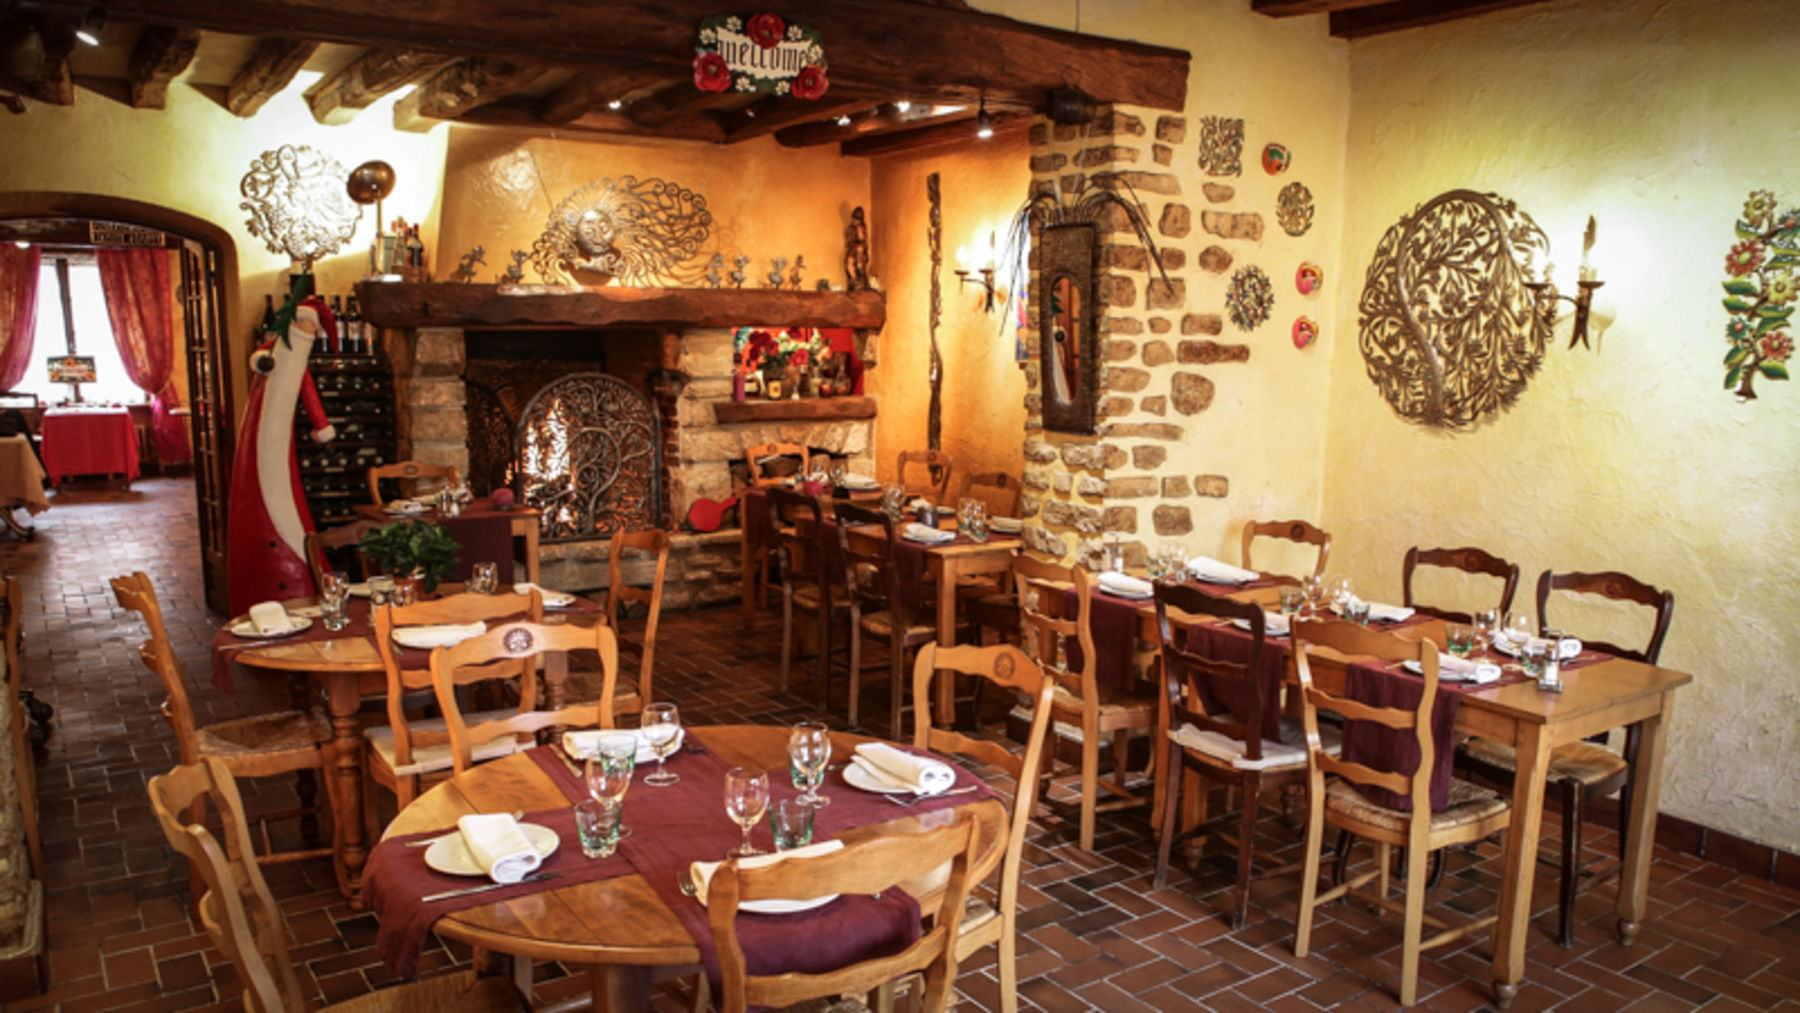
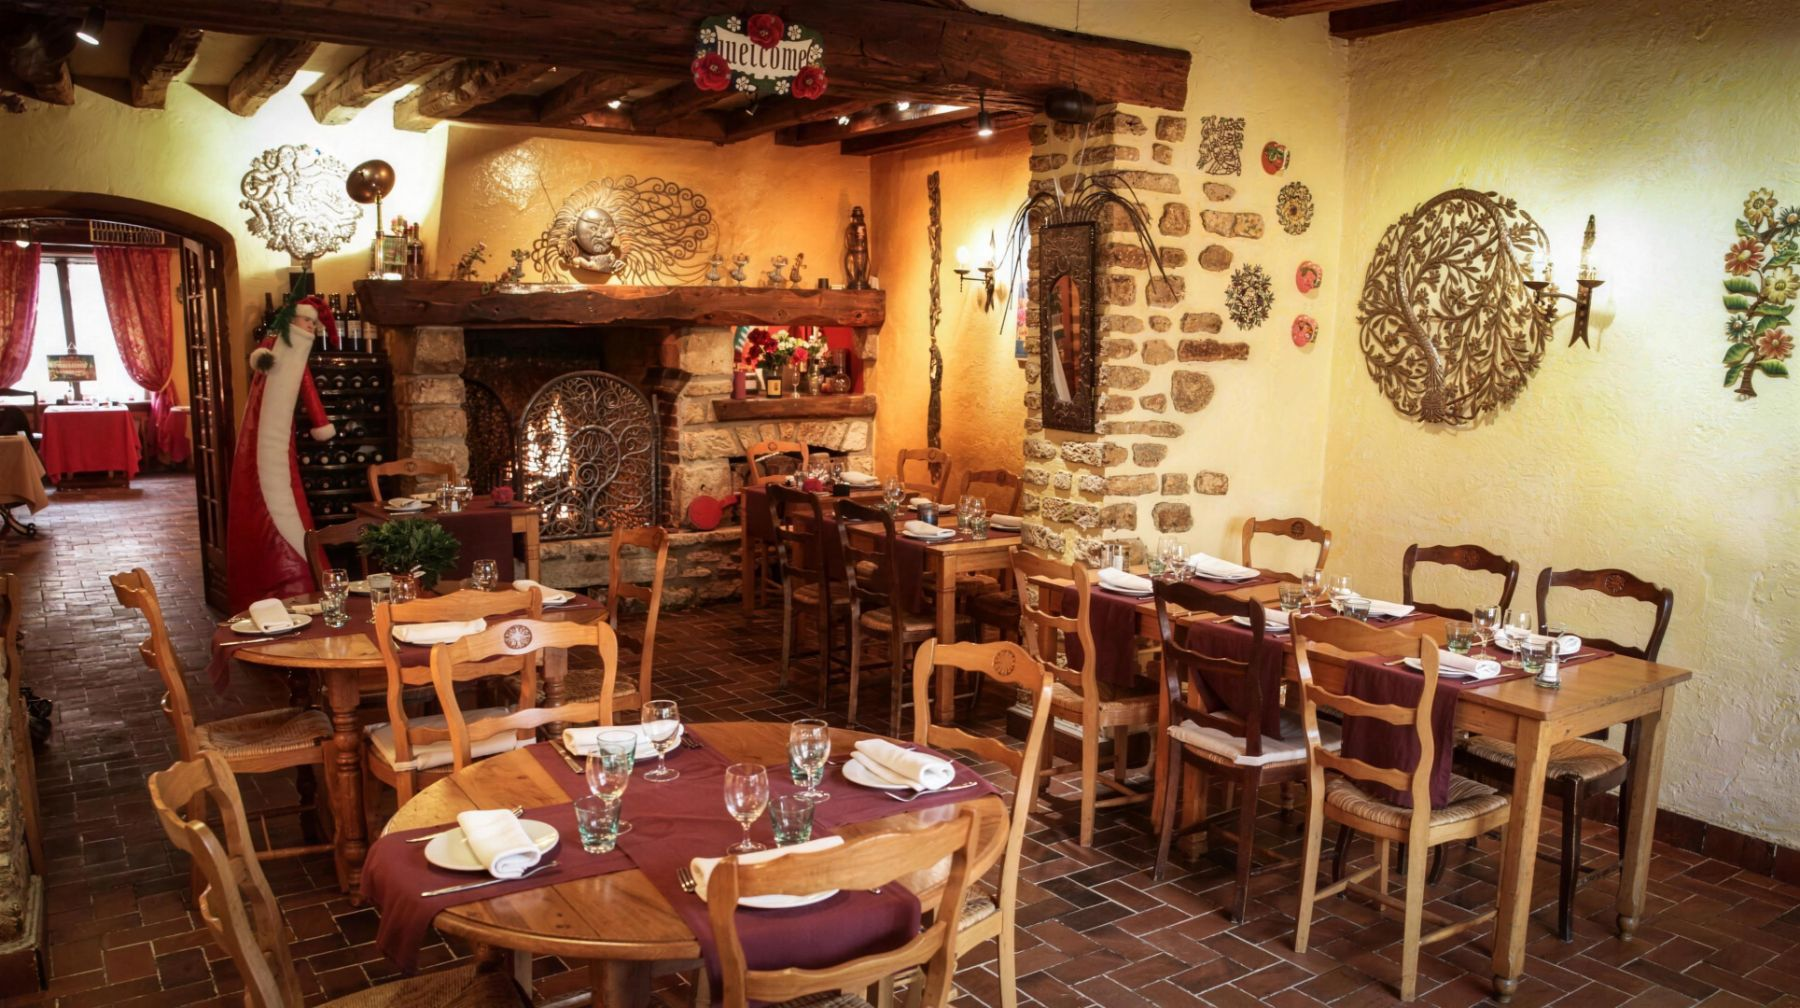
Auberge de l'Abbaye : salle en cadre, feu en médaillon, photos agrandies
Claude-Session: https://claude.ai/code/session_01LtYDpCrxy4Ar5vH1sUeZpG

diff --git a/maquettes/auberge-abbaye/index.html b/maquettes/auberge-abbaye/index.html
@@ -138,8 +138,54 @@ html[lang=de] .pl1 .c1 h1{font-size:clamp(2.1rem,3.9vw,3.9rem)}
   .pl1 .c1 h1::after{display:none}
 }
 .visite.static .pl1{min-height:760px}
+/* chapitres 2 et 3 : cadres sur panneau */
+.pl2,.pl3{background:var(--fer)}
+.pl2{background-image:radial-gradient(110% 90% at 100% 0%,rgba(106,27,41,.5),rgba(106,27,41,0) 60%)}
+.pl3{background-image:radial-gradient(90% 80% at 80% 50%,rgba(255,122,26,calc(.16 * var(--feu))),rgba(25,20,17,0) 65%)}
+.pl2::after,.pl3::after{display:none}
+.plan .frame,.plan .medal{margin:0;position:absolute}
+.plan .frame picture,.plan .medal picture{position:absolute;inset:0;overflow:hidden}
+.plan .frame img,.plan .medal img{position:absolute;inset:0;width:100%;height:100%;object-fit:cover}
+.pl2 .frame{left:var(--pad);top:calc(var(--head) + 22px);bottom:108px;width:min(54vw,920px)}
+.pl2 .frame picture{border-radius:2px;box-shadow:0 40px 80px -40px rgba(0,0,0,.95)}
+.pl2 .frame::before{content:"";position:absolute;inset:-12px;border:1.5px solid rgba(223,169,59,.6);pointer-events:none}
+.pl2 .frame img{transform:scale(var(--z2));object-position:44% 52%}
+.pl2 .c2{left:auto;right:var(--pad);top:var(--head);bottom:56px;display:flex;flex-direction:column;justify-content:center;max-width:min(34vw,500px)}
+.pl3 .medal{right:calc(var(--pad) + 2vw);top:calc(50% + 10px);width:min(44vw,calc(100vh - 210px),720px);aspect-ratio:1;transform:translateY(-50%)}
+.pl3 .medal picture{border-radius:50%;box-shadow:0 40px 90px -30px rgba(0,0,0,.95)}
+.pl3 .medal::before{content:"";position:absolute;inset:-14px;border:1.5px solid rgba(223,169,59,.6);border-radius:50%;pointer-events:none}
+.pl3 .medal img{object-position:50% 50%;transform:scale(1.02)}
+.pl3 .braise{border-radius:50%;overflow:hidden}
+.braise::before{left:38%!important;top:58%!important;width:120%!important}
+.pl3 .c3{top:var(--head);bottom:56px;display:flex;flex-direction:column;justify-content:center;max-width:min(40vw,560px);right:auto}
+.pl2 .chap h2,.pl3 .chap h2{font-size:clamp(2.3rem,4.4vw,4.4rem);text-shadow:none}
+.pl2 .chap h2::after,.pl3 .chap h2::after{content:"";display:block;width:64px;height:2px;background:var(--ocre);margin-top:24px}
+.pl2 .chap p,.pl3 .chap p{text-shadow:none}
+@media (max-width:900px){
+  .pl2 .frame{left:var(--pad);right:var(--pad);width:auto;top:calc(var(--head) + 16px);bottom:auto;height:min(44svh,520px)}
+  .pl2 .c2,.pl3 .c3{left:var(--pad);right:var(--pad);top:calc(var(--head) + min(44svh,520px) + 52px);bottom:auto;max-width:none;justify-content:flex-start}
+  .pl3 .medal{left:50%;right:auto;top:calc(var(--head) + 22px);width:min(78vw,calc(44svh - 12px),500px);transform:translateX(-50%)}
+  .pl2 .chap h2,.pl3 .chap h2{font-size:clamp(1.9rem,7vw,3.2rem)}
+  .pl2 .chap h2::after,.pl3 .chap h2::after{margin-top:14px;width:48px}
+}
+@media (max-width:700px){
+  .pl2 .frame{height:36svh}
+  .pl3 .medal{width:min(74vw,calc(36svh - 10px))}
+  .pl2 .c2,.pl3 .c3{top:calc(var(--head) + 36svh + 48px)}
+  .pl2 .chap p,.pl3 .chap p{font-size:1rem;margin-top:12px}
+}
+@media (max-width:700px) and (max-height:700px){
+  .pl2 .frame{height:30svh}.pl3 .medal{width:min(70vw,calc(30svh - 8px))}
+  .pl2 .c2,.pl3 .c3{top:calc(var(--head) + 30svh + 40px)}
+  .pl2 .chap h2::after,.pl3 .chap h2::after{display:none}
+}
+.visite.static .pl2,.visite.static .pl3{min-height:760px}
+.visite.static .pl3 .medal{transform:translateY(-50%)}
+@media (max-width:900px){.visite.static .pl3 .medal{transform:translateX(-50%)}}
 
-.pl2{clip-path:inset(0 calc((1 - var(--door)) * 50%) 0 calc((1 - var(--door)) * 50%))}
+
+.pl2{opacity:var(--door)}
+.pl2 .frame{transform:translateY(calc((1 - var(--door)) * 40px))}
 .pl2 img{transform:scale(var(--z2));object-position:42% 50%}
 .pl3{opacity:var(--p3);pointer-events:none}
 .pl3.live{pointer-events:auto}
@@ -167,7 +213,8 @@ html[lang=de] .chap h1,html[lang=de] .chap h2{font-size:clamp(2.1rem,5.2vw,4.4re
 /* version sans mouvement */
 .visite.static{height:auto}
 .visite.static .stage{position:static;height:auto;min-height:0;overflow:visible}
-.visite.static .plan{position:relative;height:92vh;height:92svh;min-height:520px;clip-path:none;opacity:1;overflow:hidden}
+.visite.static .plan{position:relative;height:92vh;height:92svh;min-height:520px;clip-path:none;opacity:1!important;overflow:hidden}
+.visite.static .pl2 .frame{transform:none}
 .visite.static .pl3 img{filter:none}
 .visite.static .chap{opacity:1;transform:none;z-index:2;bottom:56px}
 .visite.static .braise,.visite.static .progress,.visite.static .skip{display:none}
@@ -358,7 +405,6 @@ address{font-style:normal}
 }
 @media (max-width:700px){
   .visite{height:330vh}
-  .pl2 img,.pl3 img{object-position:50% 50%}
   .pl1 picture img{object-position:30% 44%}
   .braise::before{left:18%;top:57%;width:120vw}
   .chap{bottom:70px}
@@ -425,15 +471,14 @@ address{font-style:normal}
         </div>
       </div>
       <div class="plan pl2" id="visite-2">
-        <picture><source media="(max-width:700px)" srcset="img/salle-m.jpg"><img src="img/salle.jpg" alt="" data-ia="alt_salle" width="1800" height="1013" loading="lazy"></picture>
+        <figure class="frame"><picture><img src="img/salle.jpg" alt="" data-ia="alt_salle" width="2048" height="1152" loading="lazy"></picture></figure>
         <div class="chap c2">
           <h2 data-i="s2_h"></h2>
           <p data-i="s2_p"></p>
         </div>
       </div>
       <div class="plan pl3">
-        <picture><source media="(max-width:700px)" srcset="img/feu-m.jpg"><img src="img/feu.jpg" alt="" data-ia="alt_feu" width="1800" height="1013" loading="lazy"></picture>
-        <div class="braise" aria-hidden="true"></div>
+        <figure class="medal"><picture><img src="img/feu.jpg" alt="" data-ia="alt_feu" width="1100" height="1100" loading="lazy"></picture><div class="braise" aria-hidden="true"></div></figure>
         <div class="chap c3">
           <h2 data-i="s3_h"></h2>
           <p data-i="s3_p"></p>
